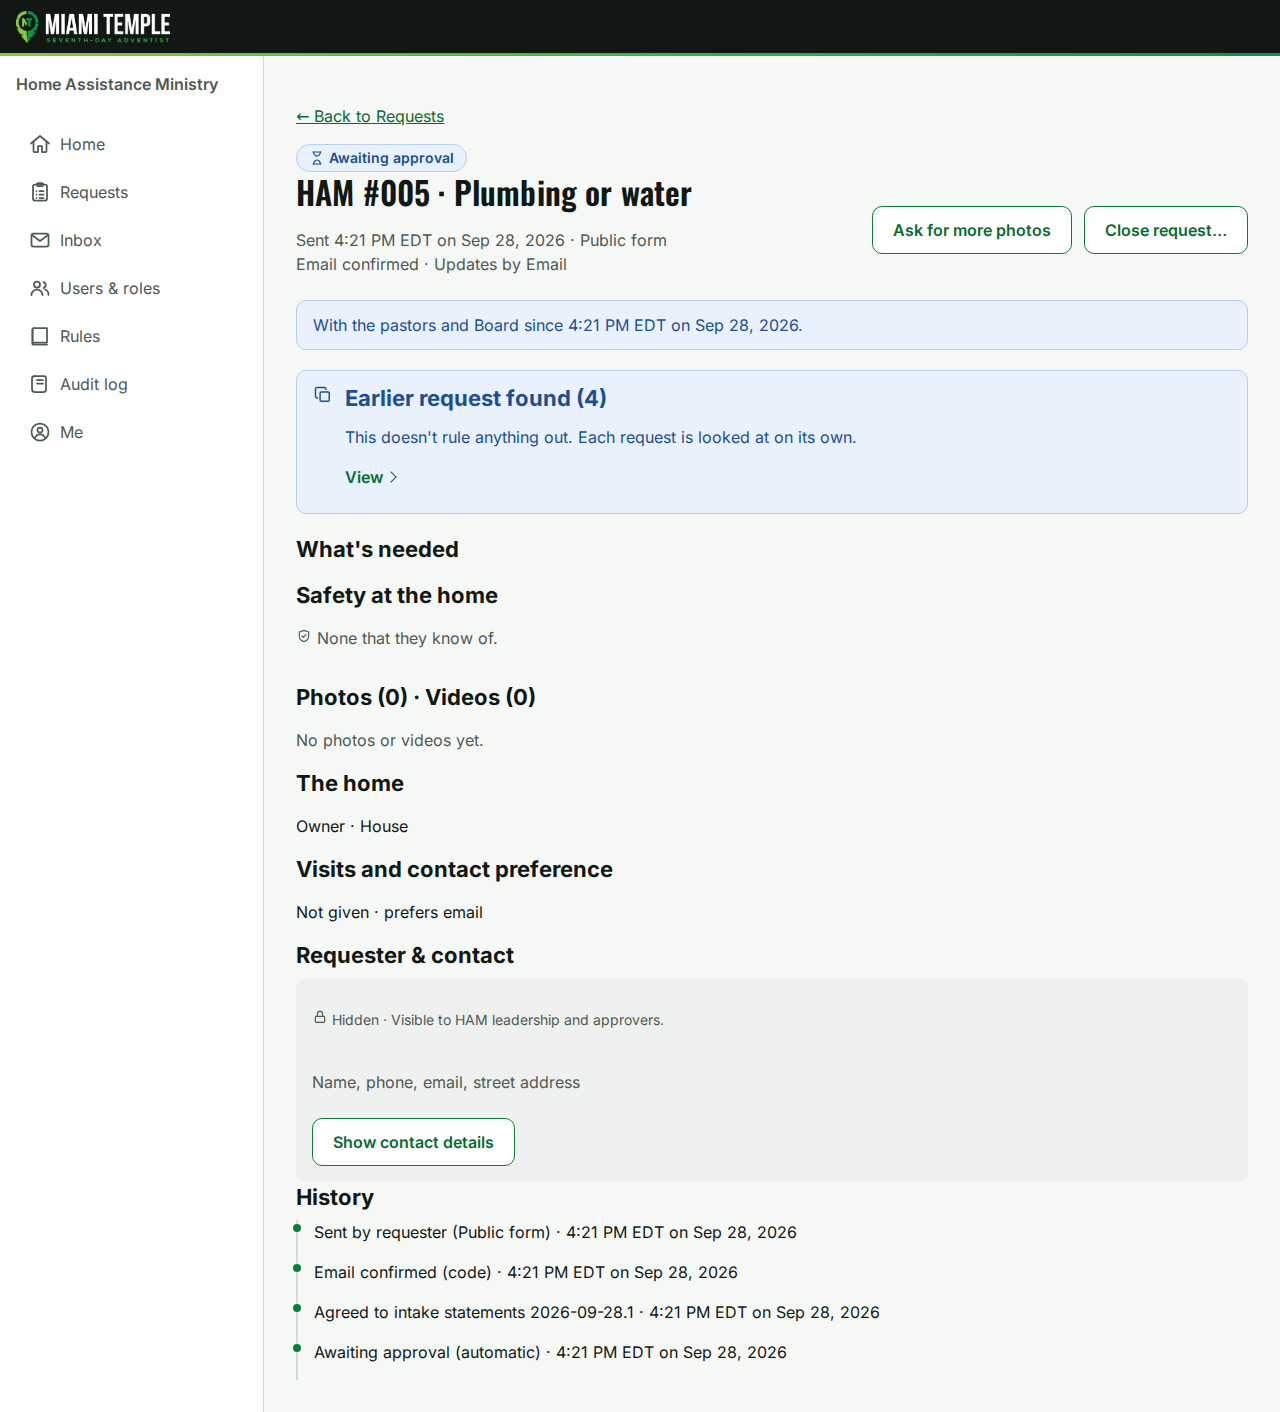
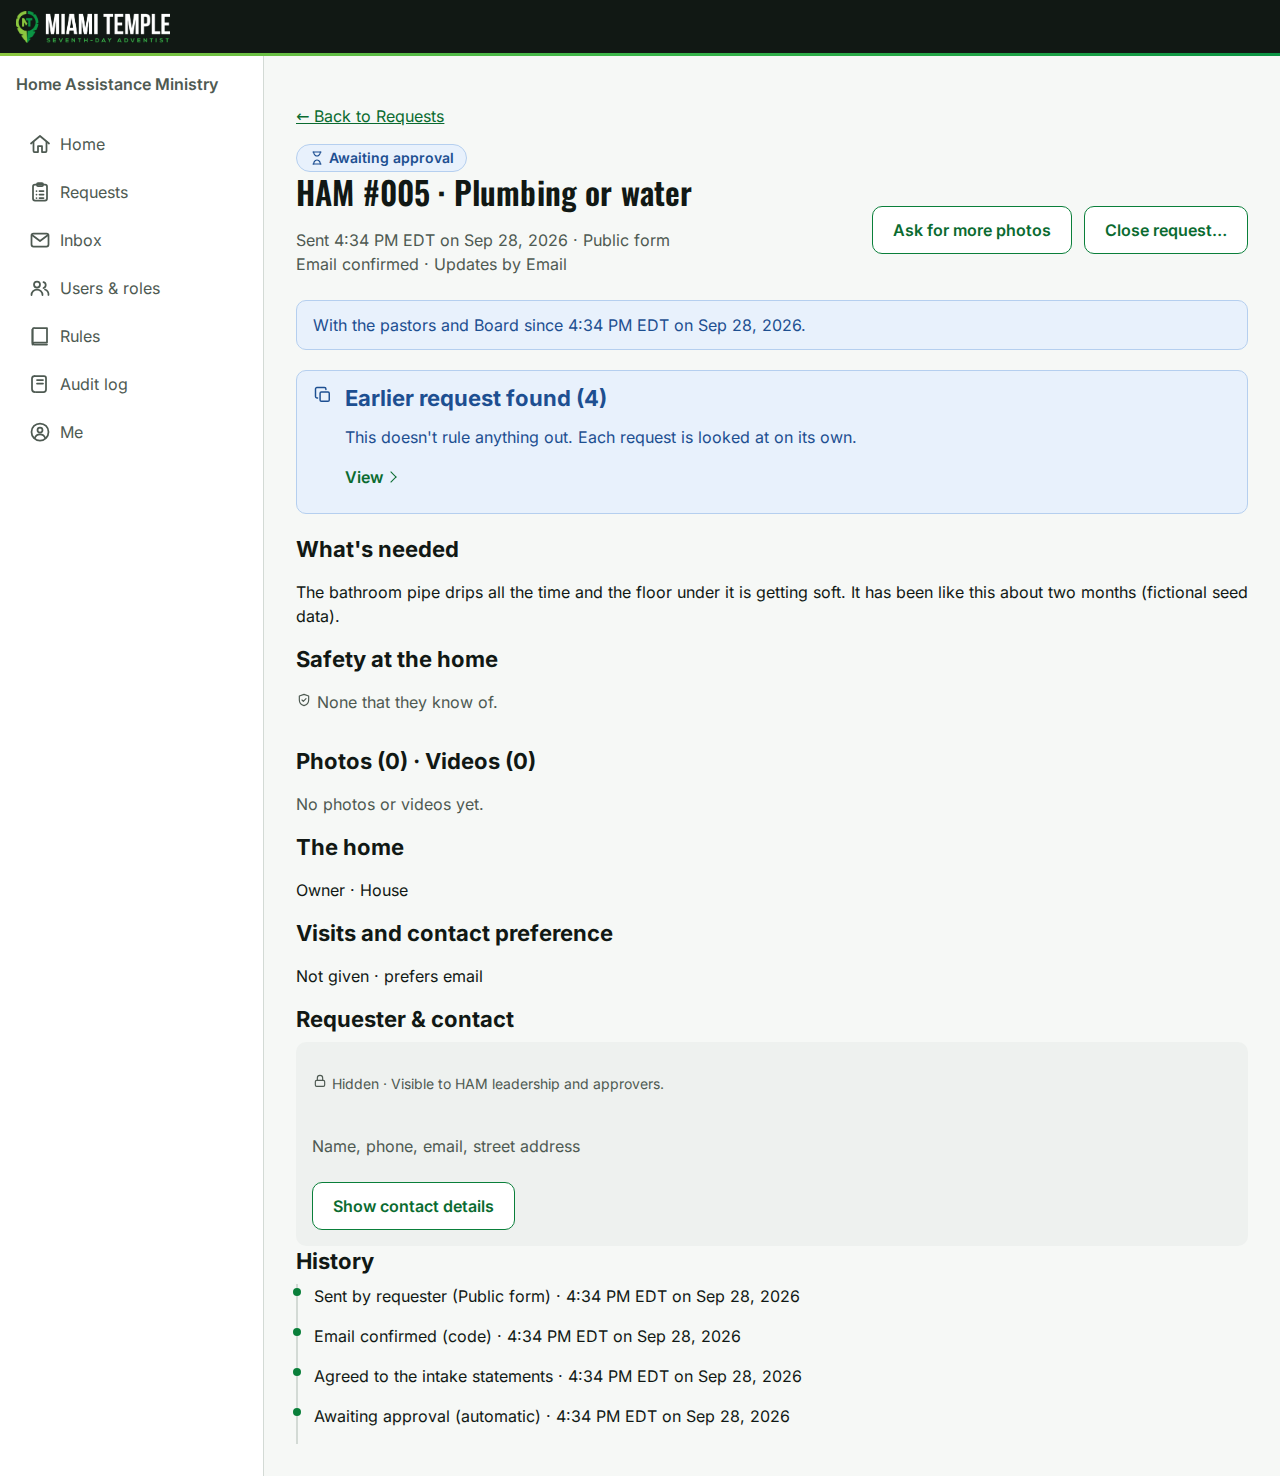
Screenshots: give leadership seed requests realistic fictional descriptions
Claude-Session: https://claude.ai/code/session_01D4ZUorW66SL42jqB2BQMY3

Changed region(s): [[0.0, 0.0, 1.0, 0.966], [0.0, 0.0935, 0.125, 0.3116], [0.6875, 0.1246, 0.9688, 0.187]]

diff --git a/tests/e2e/test_step2_leadership_screenshots.py b/tests/e2e/test_step2_leadership_screenshots.py
@@ -64,20 +64,34 @@ def test_leadership_screenshots(live_server):
             RequesterContext(request_id=None),
             draft_id=uuid.uuid4(),
             verification_id=uuid.uuid4(),
-            payload=make_payload(full_name=f"Fictional Requester {uuid.uuid4().hex[:6]}"),
+            payload=make_payload(
+                full_name=f"Fictional Requester {uuid.uuid4().hex[:6]}",
+                description="Kitchen sink leaks under the cabinet (fictional seed data).",
+            ),
         )
         complete_intake_checks(SystemContext(), request_id=req.id)
     phone_check_req = submit_request(
         RequesterContext(request_id=None),
         draft_id=uuid.uuid4(),
         verification_id=None,
-        payload=no_email_payload(full_name="Ruth Hall", phone="+13055550177"),
+        payload=no_email_payload(
+            full_name="Ruth Hall",
+            phone="+13055550177",
+            description="Front steps are loose and wobble (fictional seed data).",
+        ),
     )
     selected = submit_request(
         RequesterContext(request_id=None),
         draft_id=uuid.uuid4(),
         verification_id=uuid.uuid4(),
-        payload=make_payload(full_name="Doris Pennington", email="doris@example.org"),
+        payload=make_payload(
+            full_name="Doris Pennington",
+            email="doris@example.org",
+            description=(
+                "The bathroom pipe drips all the time and the floor under it is getting "
+                "soft. It has been like this about two months (fictional seed data)."
+            ),
+        ),
     )
     selected = complete_intake_checks(SystemContext(), request_id=selected.id)
     assert selected.status == RequestStatus.AWAITING_APPROVAL.value
